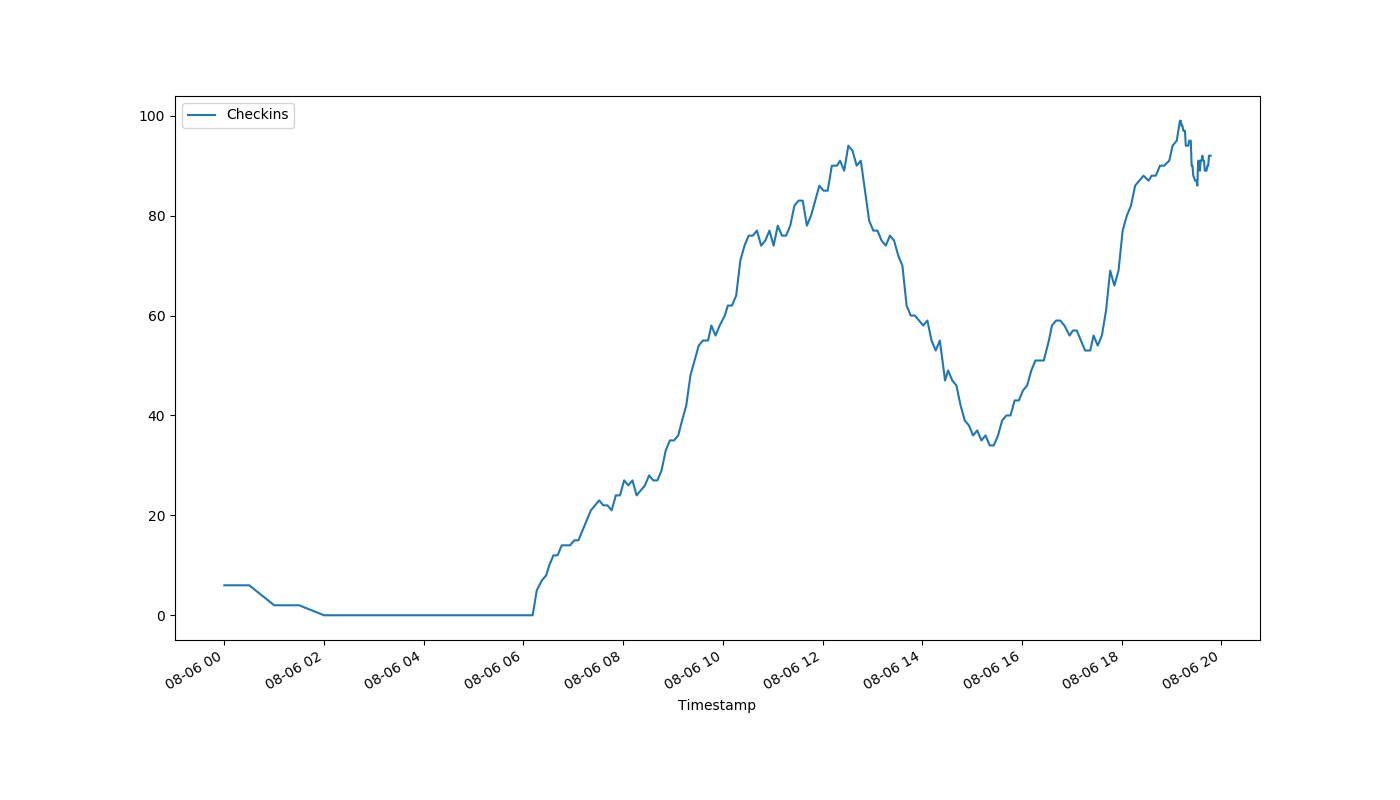
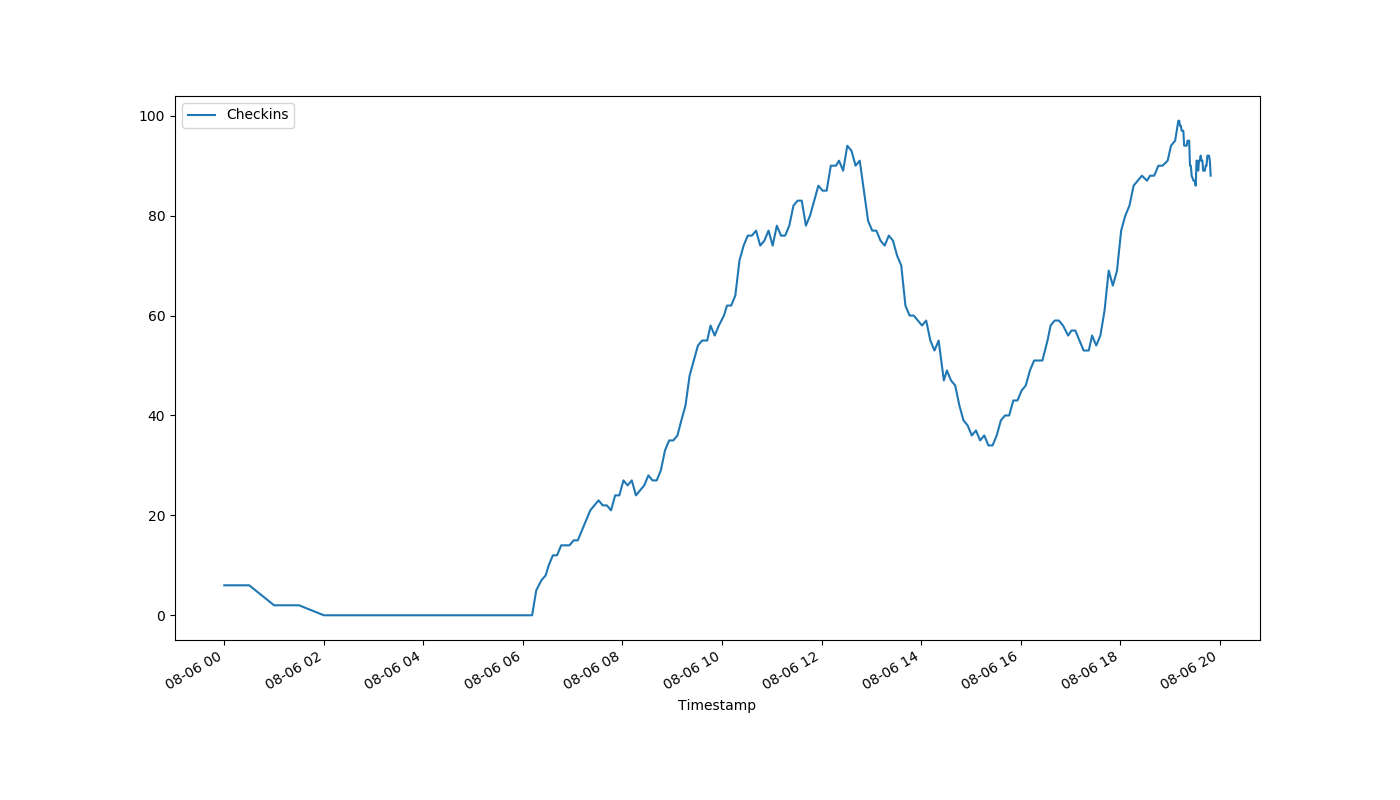
auto-Aug-06-19:50:53

diff --git a/index.html b/index.html
@@ -1,1 +1,1 @@
-<!DOCTYPE html><html><head><meta http-equiv="refresh" content="15"><link rel='stylesheet' href='holmcurrent.css'></head><body><p id='count'>92</p><div id='graph-wrap'><img id='graph' src='holmgraph-Aug-06.png'></div><p id='updated'>Last updated 19:48:09 / 19:47:09</p></body></html>
+<!DOCTYPE html><html><head><meta http-equiv="refresh" content="15"><link rel='stylesheet' href='holmcurrent.css'></head><body><p id='count'>88</p><div id='graph-wrap'><img id='graph' src='holmgraph-Aug-06.png'></div><p id='updated'>Last updated 19:50:10 / 19:49:10</p></body></html>
